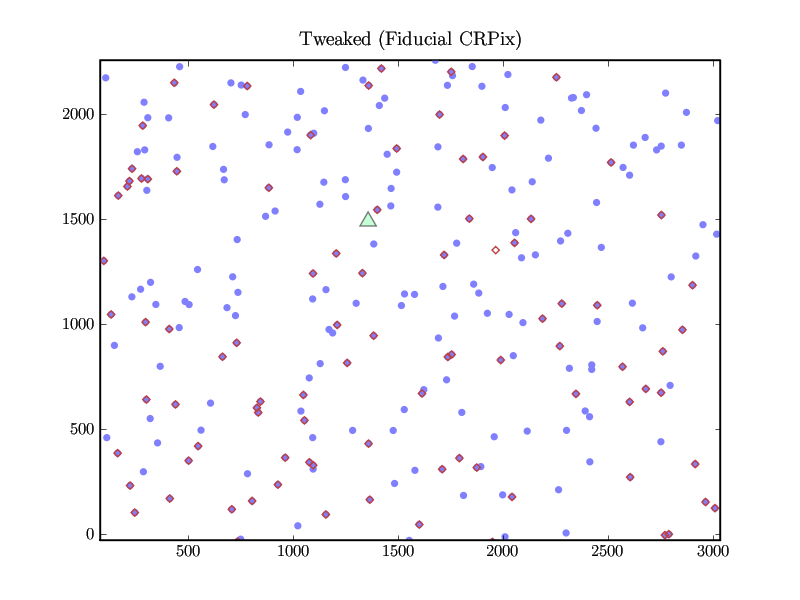
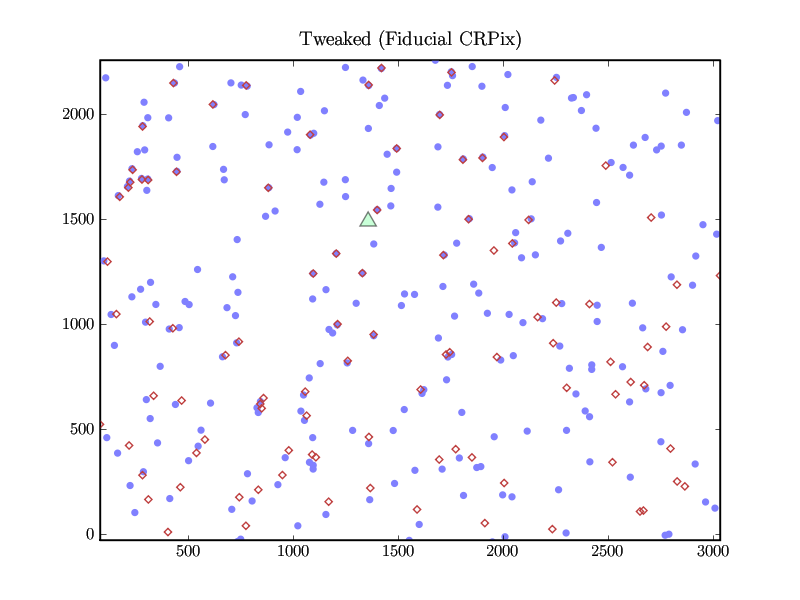
[Jon] pytweak overhaul

diff --git a/src/pytweak/tweak_lib.py b/src/pytweak/tweak_lib.py
@@ -9,33 +9,37 @@ import pdb
 
 def loadData(imageXYFilename, catalogRDFilename, inputWCSFilename, warpDegree):
 	imageData = loadImageData(imageXYFilename)[0]
-	catalogData = loadFITS(catalogRDFilename, ['RA', 'DEC'])[0]
+	catalogData = loadCatalogData(catalogRDFilename)[0]
+	
 	WCS = sip.Sip(inputWCSFilename)
 	
 	WCS.warpDegree = warpDegree;
 	
 	(catalogData['X'], catalogData['Y']) = WCS_rd2xy(WCS, catalogData['RA'], catalogData['DEC'])
-
-	# Fudge factor until we get the real data
-	catalogData['SIGMA_X'] = 0*catalogData['X'] + 1.0
-	catalogData['SIGMA_Y'] = 0*catalogData['X'] + 1.0
+	
+	# This constructs a rough "maximum" distance we should search in the 
+	# image plane.
+	minSize = array([catalogData['SIGMA_X'].shape[0], imageData['ERRS'].shape[0]]).min()
+	maxSigmas = mean(sqrt(column_stack((imageData['ERRS'][1:minSize], imageData['ERRS'][1:minSize]))**2 + column_stack((catalogData['SIGMA_X'][1:minSize], catalogData['SIGMA_Y'][1:minSize]))**2),1)
+	maxSigma = mean(maxSigmas) + 3*std(maxSigmas)
+	imageData['maxImageDist'] = MAXDIST_MULT*sqrt(maxSigma*((WEIGHT_SIGMA**2)*(1-MINWEIGHT)/MINWEIGHT))
 	
 	return (imageData, catalogData, WCS)
 
 def fixCRPix(imageData, catalogData, WCS, goal_crpix, progressiveWarp=False, renderOutput=False):
+	print "fixing crpix"
+	# if progressiveWarp:
+	# 	tweakImage_progressive(imageData, catalogData, WCS)
+	# else:
+	# 	tweakImage(imageData, catalogData, WCS)
 	
-	if progressiveWarp:
-		tweakImage_progressive(imageData, catalogData, WCS)
-	else:
-		tweakImage(imageData, catalogData, WCS)
+	# Calling this does not tweak the image, just gets the correspondences
+	tweakImage(imageData, catalogData, WCS, True)
 	
 	if renderOutput:
 		renderCatalogImage(catalogData, imageData, WCS)
 		title('Tweaked (Fiducial CRPix)')
 		savefig('2_Tweaked_Fiducial.png')
-	
-	imageData['X'] = imageData['X_INITIAL']
-	imageData['Y'] = imageData['Y_INITIAL']
 	
 	(WCS.wcstan.crval[0], WCS.wcstan.crval[1]) = WCS.pixelxy2radec(goal_crpix[0], goal_crpix[1])
 	(WCS.wcstan.crpix[0], WCS.wcstan.crpix[1]) = (goal_crpix[0], goal_crpix[1])
@@ -66,16 +70,26 @@ def loadFITS(filename, fields):
 		data[f] = double(FITS[1].data.field(f))
 	return (data, FITS)
 
-def loadImageData(imageFilename):
-	(imageData, imageFITS) = loadFITS(imageFilename, ['X', 'Y', 'FLUX', 'BACKGROUND'])
-	imageData['X_INITIAL'] = imageData['X']
-	imageData['Y_INITIAL'] = imageData['Y']
+def loadImageData(imageXYFilename):
+	(imageData, imageFITS) = loadFITS(imageXYFilename, ['X', 'Y', 'FLUX', 'BACKGROUND'])
 	
-	# These two are also fudged:
+	imageData['X_WARP'] = imageData['X']
+	imageData['Y_WARP'] = imageData['Y']
+	
+	# These two are fudged:
 	imageData['ERRS'] = 0*imageData['X'] + 1.0
 	imageData['RADII'] = 0*imageData['X'] + 1.0
-	
+		
 	return (imageData, imageFITS)
+
+def loadCatalogData(catalogRDFilename):
+	(catalogData, catalogFITS) = loadFITS(catalogRDFilename, ['RA', 'DEC'])
+	
+	# Fudge factor until we get the real data
+	catalogData['SIGMA_X'] = 0*catalogData['RA'] + 1.0
+	catalogData['SIGMA_Y'] = 0*catalogData['RA'] + 1.0
+	
+	return (catalogData, catalogFITS)
 
 # Using this is a bad idea, probably
 # def trimCatalog2Image(catalogData, imageData):
@@ -92,9 +106,9 @@ def renderCatalogImage(catalogData, imageData, WCS):
 	scatter(array([WCS.wcstan.crpix[0]]), array([WCS.wcstan.crpix[1]]), marker = '^', s=200, facecolor=(0.3,1,0.5,0.3), edgecolor=(0,0,0,0.5))
 	axis('equal')
 	try:
-		axis((min(imageData['X_INITIAL']), max(imageData['X_INITIAL']), min(imageData['Y_INITIAL']), max(imageData['Y_INITIAL'])))
-	except:
 		axis((min(imageData['X']), max(imageData['X']), min(imageData['Y']), max(imageData['Y'])))
+	except:
+		axis((min(imageData['X_WARP']), max(imageData['X_WARP']), min(imageData['Y_WARP']), max(imageData['Y_WARP'])))
 
 def renderCatalogImageRADec(catalogData, imageData, WCS):
 	figure()
@@ -103,20 +117,19 @@ def renderCatalogImageRADec(catalogData, imageData, WCS):
 	scatter(array([WCS.wcstan.crval[0]]), array([WCS.wcstan.crval[1]]), marker = '^', s=200, facecolor=(0.3,1,0.5,0.3), edgecolor=(0,0,0,0.5))
 	axis('image')
 
-
 def renderImageMotion(imageData, WCS):
 	figure()
-	scatter(imageData['X_INITIAL'], imageData['Y_INITIAL'], marker = 'o', s=30, facecolor=(1,1,1,0), edgecolor=COLOR1)
-	scatter(imageData['X'], imageData['Y'], marker = 'd', s=30, facecolor=(1,1,1,0), edgecolor=COLOR2)
+	scatter(imageData['X'], imageData['Y'], marker = 'o', s=30, facecolor=(1,1,1,0), edgecolor=COLOR1)
+	scatter(imageData['X_WARP'], imageData['Y_WARP'], marker = 'd', s=30, facecolor=(1,1,1,0), edgecolor=COLOR2)
 	scatter(array([WCS.wcstan.crpix[0]]), array([WCS.wcstan.crpix[1]]), marker = '^', s=200, facecolor=(0.3,1,0.5,0.3), edgecolor=(0,0,0,0.5))
 	axis('image')
-	axis((min(imageData['X_INITIAL']), max(imageData['X_INITIAL']), min(imageData['Y_INITIAL']), max(imageData['Y_INITIAL'])))
+	axis((min(imageData['X']), max(imageData['X']), min(imageData['Y']), max(imageData['Y'])))
 
 
 def findAllPairs(a, b, maxDist):
 	distSqMat = tile(mat(sum(square(a),1)).T, (1,b.shape[0])) + tile(mat(sum(square(b),1)), (a.shape[0],1)) - 2*(mat(a)*mat(b).T)
 	distSqMat[distSqMat<0.0] = 0.0
-	#  Identical to Matlab
+	## Identical to Matlab, useful for debugging
 	# [i,j] = where(distSqMat.T < square(maxDist))
 	# pairs = concatenate((j,i),0).transpose()
 	# pairs = column_stack((array(pairs)[:,0], array(pairs)[:,1]))
@@ -153,7 +166,7 @@ def polyExpand(imagePoints, D, Dstart = 0):
 	x = imagePoints[:,0]
 	y = imagePoints[:,1]
 	
-	width = (((D+1)*(D+2))/2-1) - ((Dstart*(Dstart+1))/2-1)
+	width = 0.5*((D*(D+3)) - (Dstart*(Dstart+1))) + 1
 	A_sub = double(mat(zeros((x.shape[0], width))))
 	
 	col = 0
@@ -186,18 +199,18 @@ def polyWarpWCS(imageData, catalogData, WCS):
 	pushAffine2WCS(WCS)
 	
 	(catalogData['X'], catalogData['Y']) = WCS_rd2xy(WCS, catalogData['RA'], catalogData['DEC'])
-	imageData['X'] = imageData['X_INITIAL']
-	imageData['Y'] = imageData['Y_INITIAL']
+	imageData['X_WARP'] = imageData['X']
+	imageData['Y_WARP'] = imageData['Y']
 	
 	return (centerShiftDist, linearWarpAmount)
 
 def polyWarp(imageData, catalogData, WCS):
 	pivot = WCS.wcstan.crpix
 	pairs = imageData['pairs']
-	x_init = imageData['X_INITIAL'] - pivot[0]
-	y_init = imageData['Y_INITIAL'] - pivot[1]
-	x = imageData['X'] - pivot[0]
-	y = imageData['Y'] - pivot[1]
+	x_init = imageData['X'] - pivot[0]
+	y_init = imageData['Y'] - pivot[1]
+	x = imageData['X_WARP'] - pivot[0]
+	y = imageData['Y_WARP'] - pivot[1]
 	cx = catalogData['X'] - pivot[0]
 	cy = catalogData['Y'] - pivot[1]
 	
@@ -231,11 +244,10 @@ def polyWarp(imageData, catalogData, WCS):
 		
 	imagePoints_warp = (A_all * M).reshape(-1,2)
 	
-	imageData['X'] = array(imagePoints_warp[:,0])[:,0] + pivot[0]
-	imageData['Y'] = array(imagePoints_warp[:,1])[:,0] + pivot[1]
+	imageData['X_WARP'] = array(imagePoints_warp[:,0])[:,0] + pivot[0]
+	imageData['Y_WARP'] = array(imagePoints_warp[:,1])[:,0] + pivot[1]
 	imageData['residuals'] = resid
 	WCS.warpM = M
-	# imageData['iwarpM'] = iM
 
 
 def tweakImage_progressive(imageData, catalogData, WCS):
@@ -246,34 +258,25 @@ def tweakImage_progressive(imageData, catalogData, WCS):
 	WCS.warpDegree = warpDegree
 
 
-def tweakImage(imageData, catalogData, WCS):
-	MINWEIGHT = (getWeight(MINWEIGHT_DOS,1))[0]
-	MAXERROR = MINWEIGHT*(MINWEIGHT_DOS**2);
-
-	minSize = array([catalogData['SIGMA_X'].shape[0], imageData['ERRS'].shape[0]]).min()
-
-	maxSigmas = mean(sqrt(column_stack((imageData['ERRS'][1:minSize], imageData['ERRS'][1:minSize]))**2 + column_stack((catalogData['SIGMA_X'][1:minSize], catalogData['SIGMA_Y'][1:minSize]))**2),1)
-	maxSigma = mean(maxSigmas) + 3*std(maxSigmas)
-
-	maxImageDist = MAXDIST_MULT*sqrt(maxSigma*((WEIGHT_SIGMA**2)*(1-MINWEIGHT)/MINWEIGHT))
-
+def tweakImage(imageData, catalogData, WCS, onlyCorrespondences=False):
+	
 	numAllPairs = imageData['X'].shape[0]*catalogData['X'].shape[0]
-
+	
 	totalResiduals = []
 	redist_countdown = 0
-
+	
 	# print 'tweaking image with degree =', WCS.warpDegree
-
+	
 	for iter in range(0,TWEAK_MAX_NUM_ITERS):
 		
 		just_requeried = 0;
 		if redist_countdown == 0:
-			(pairs_all, dists_all) = findAllPairs(column_stack((imageData['X'], imageData['Y'])), column_stack((catalogData['X'], catalogData['Y'])), maxImageDist)
+			(pairs_all, dists_all) = findAllPairs(column_stack((imageData['X_WARP'], imageData['Y_WARP'])), column_stack((catalogData['X'], catalogData['Y'])), imageData['maxImageDist'])
 			sigmas_all = (sqrt(imageData['ERRS'][pairs_all[:,0]]**2 + catalogData['SIGMA_X'][pairs_all[:,1]]**2) + sqrt(imageData['ERRS'][pairs_all[:,0]]**2 + catalogData['SIGMA_Y'][pairs_all[:,1]]**2))/2
 			just_requeried = 1
 			redist_countdown = REDIST_INTERVAL
 		else:
-			dists_all = sqrt(square(imageData['X'][pairs_all[:,0]] - catalogData['X'][pairs_all[:,1]]) + square(imageData['Y'][pairs_all[:,0]] - catalogData['Y'][pairs_all[:,1]]))
+			dists_all = sqrt(square(imageData['X_WARP'][pairs_all[:,0]] - catalogData['X'][pairs_all[:,1]]) + square(imageData['Y_WARP'][pairs_all[:,0]] - catalogData['Y'][pairs_all[:,1]]))
 		
 		weights_all = getWeight(dists_all, sigmas_all)[0]
 
@@ -283,6 +286,9 @@ def tweakImage(imageData, catalogData, WCS):
 		imageData['sigmas'] = sigmas_all[toKeep,:]
 		imageData['dists'] = dists_all[toKeep,:]
 		imageData['weights'] = weights_all[toKeep,:]
+		
+		if onlyCorrespondences:
+			return
 		
 		polyWarp(imageData, catalogData, WCS)
 		
@@ -302,7 +308,7 @@ def pushAffine2WCS(WCS):
 	startCRPix = array([WCS.wcstan.crpix[0], WCS.wcstan.crpix[1]])
 	centerShift = array(WCS.warpM.reshape(2,-1)[:,-1].T)[0]
 	linearWarp = WCS.warpM.reshape(2,-1)[:,-3:-1]
-
+	
 	(WCS.wcstan.crpix[0], WCS.wcstan.crpix[1]) = startCRPix - centerShift
 	(WCS.wcstan.crval[0], WCS.wcstan.crval[1]) = WCS.pixelxy2radec(startCRPix[0], startCRPix[1])
 	(WCS.wcstan.crpix[0], WCS.wcstan.crpix[1]) = startCRPix
@@ -442,3 +448,8 @@ def writeOutput(WCS, inputWCSFilename, outputWCSFilename, catalogXYFilename, cat
 				print 'not rendering warped image because image output not specified'
 	else:
 		print 'cannot write WCS output, all output aborted'
+
+# It's pretty silly that this has to be here, but it needs constants.py
+# and refers to getWeight()
+MINWEIGHT = (getWeight(MINWEIGHT_DOS,1))[0]
+MAXERROR = MINWEIGHT*(MINWEIGHT_DOS**2);

diff --git a/src/pytweak/tweak.py b/src/pytweak/tweak.py
@@ -39,9 +39,6 @@ def tweak(inputWCSFilename, catalogRDFilename, imageXYFilename,
 	else:
 		tweakImage(imageData, catalogData, WCS)
 	
-	imageData['X'] = imageData['X_INITIAL']
-	imageData['Y'] = imageData['Y_INITIAL']
-		
 	polyWarpWCS_repeat(imageData, catalogData, WCS)	
 	
 	if renderOutput:
